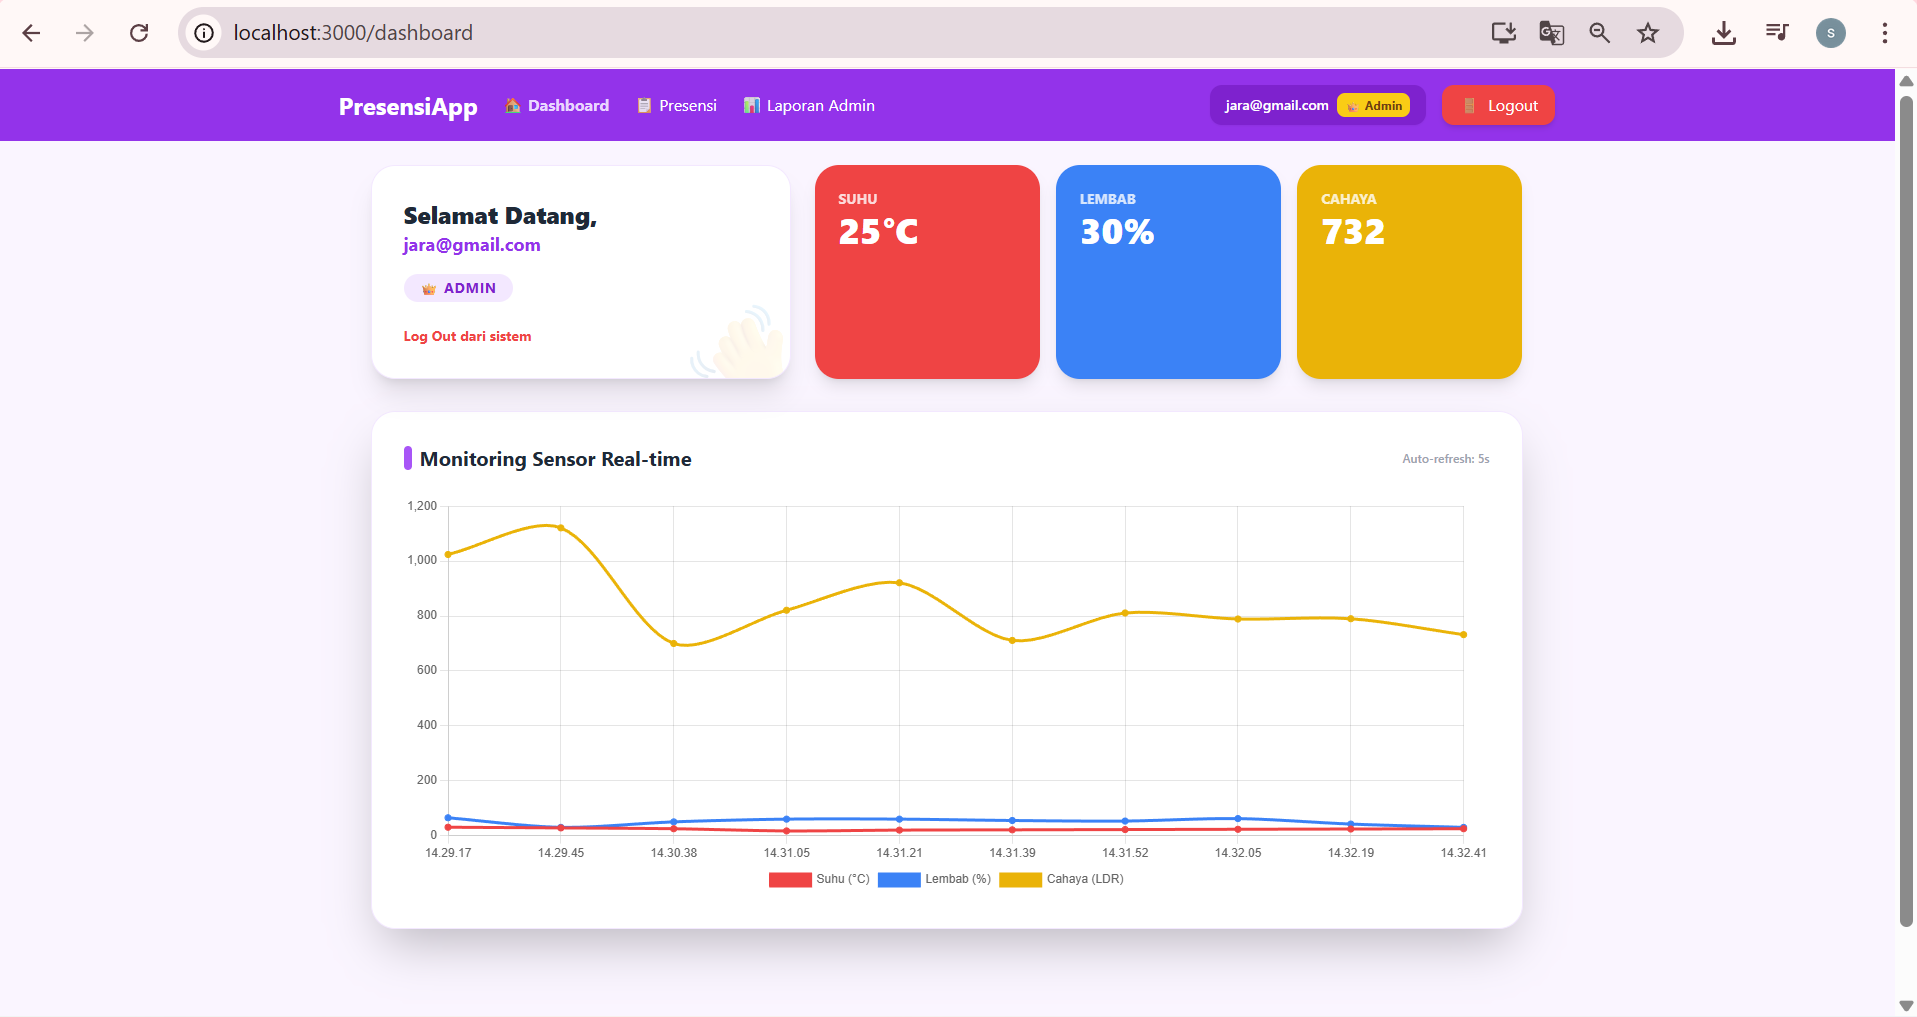
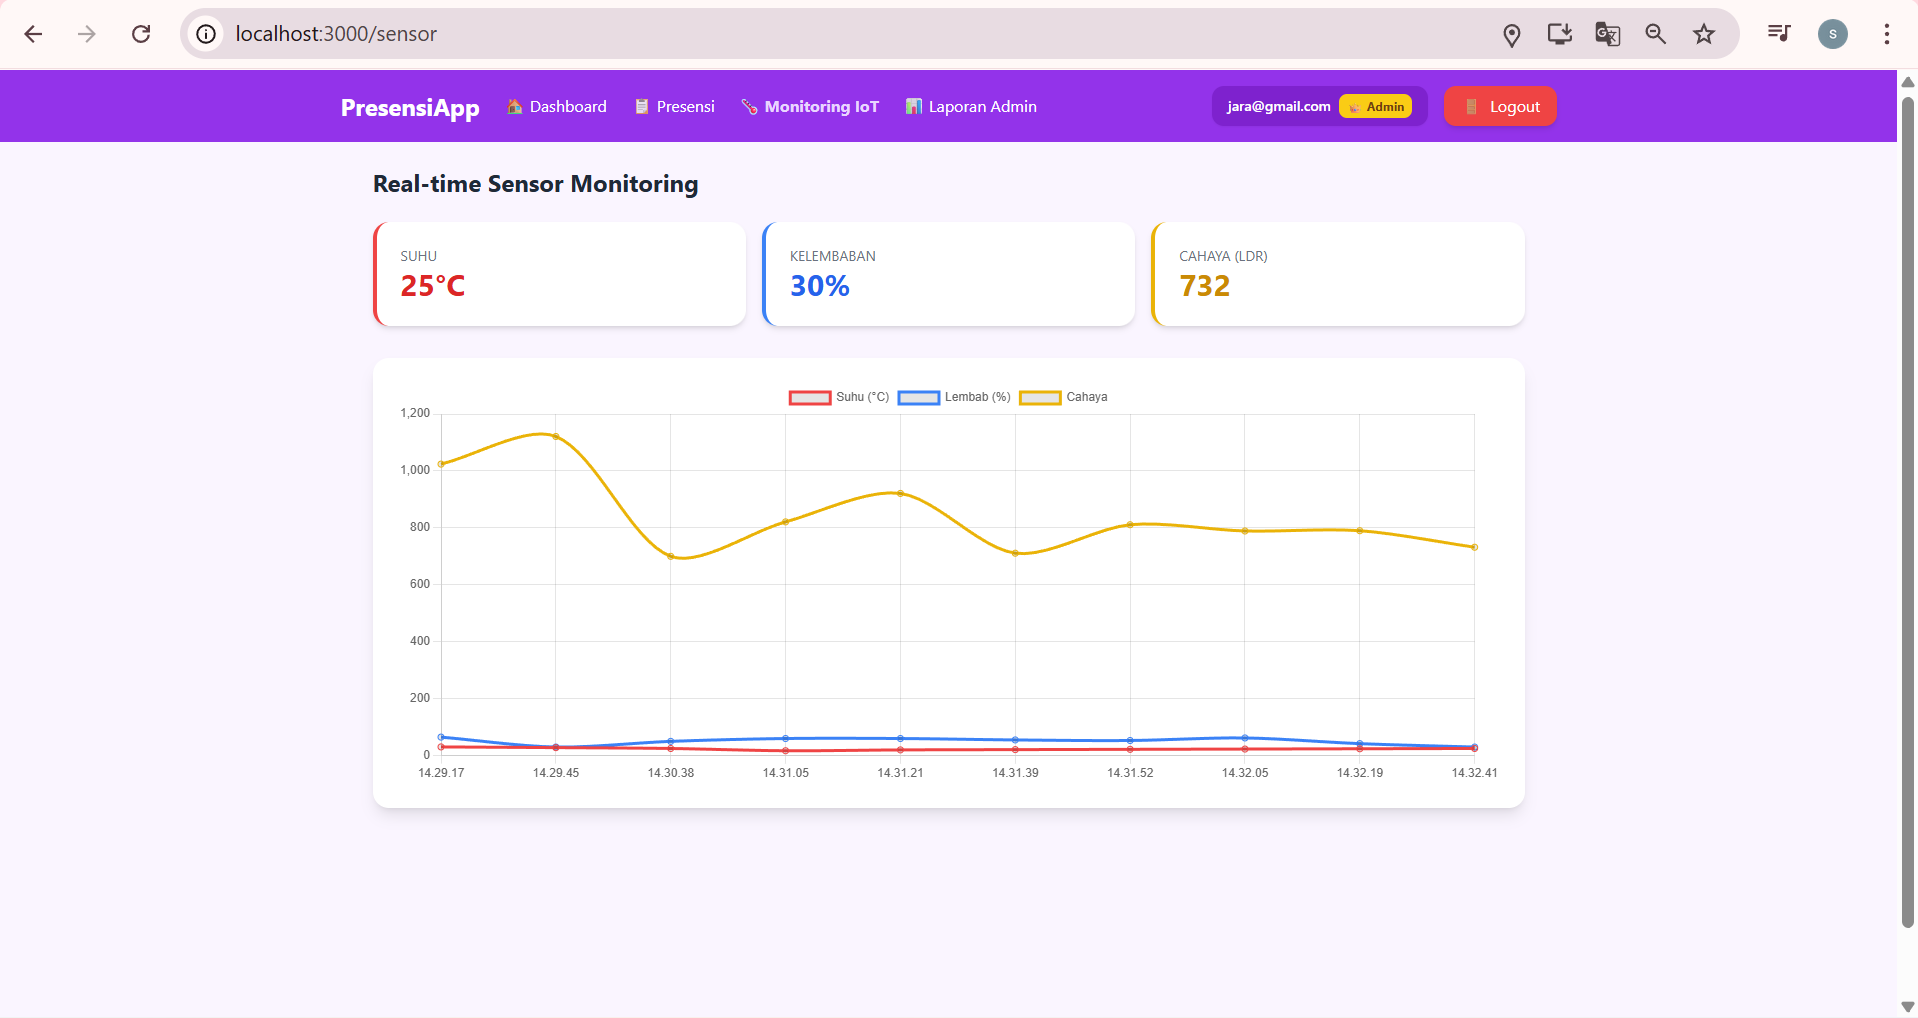
update tugas 14

diff --git a/20230140140-react-app/src/components/DashboardPage.js b/20230140140-react-app/src/components/DashboardPage.js
@@ -1,78 +1,24 @@
 import React, { useEffect, useState } from "react";
 import { useNavigate } from "react-router-dom";
 import { jwtDecode } from "jwt-decode";
-import axios from "axios";
-import {
-  Chart as ChartJS,
-  CategoryScale,
-  LinearScale,
-  PointElement,
-  LineElement,
-  Title,
-  Tooltip,
-  Legend,
-} from "chart.js";
-import { Line } from "react-chartjs-2";
-
-// Registrasi ChartJS
-ChartJS.register(CategoryScale, LinearScale, PointElement, LineElement, Title, Tooltip, Legend);
 
 function DashboardPage() {
   const navigate = useNavigate();
   const [userName, setUserName] = useState("Pengguna");
   const [role, setRole] = useState("");
 
-  // State untuk IoT (Modul 14)
-  const [chartData, setChartData] = useState({ labels: [], datasets: [] });
-  const [latestData, setLatestData] = useState({ suhu: 0, kelembaban: 0, cahaya: 0 });
-
-  // 1. Fungsi Ambil Data dari Backend
-  const fetchIoTData = async () => {
-    try {
-      const response = await axios.get("http://localhost:3001/api/iot/history");
-      const dataSensor = response.data.data;
-
-      if (dataSensor.length > 0) {
-        // Ambil data terbaru untuk Card
-        setLatestData(dataSensor[dataSensor.length - 1]);
-
-        // Siapkan data untuk Grafik
-        const labels = dataSensor.map((item) => new Date(item.createdAt).toLocaleTimeString("id-ID"));
-        const dataSuhu = dataSensor.map((item) => item.suhu);
-        const dataLembab = dataSensor.map((item) => item.kelembaban);
-        const dataCahaya = dataSensor.map((item) => item.cahaya);
-
-        setChartData({
-          labels,
-          datasets: [
-            { label: "Suhu (°C)", data: dataSuhu, borderColor: "#ef4444", backgroundColor: "#ef4444", tension: 0.3 },
-            { label: "Lembab (%)", data: dataLembab, borderColor: "#3b82f6", backgroundColor: "#3b82f6", tension: 0.3 },
-            { label: "Cahaya (LDR)", data: dataCahaya, borderColor: "#eab308", backgroundColor: "#eab308", tension: 0.3 },
-          ],
-        });
-      }
-    } catch (err) {
-      console.error("Gagal mengambil data IoT:", err);
-    }
-  };
-
   useEffect(() => {
-    // Auth Check
     const token = localStorage.getItem("token");
     if (!token) return navigate("/login");
 
     try {
       const decoded = jwtDecode(token);
+      // Mengambil email dari token
       setUserName(decoded.email || "Pengguna");
       setRole(decoded.role);
     } catch (e) {
       navigate("/login");
     }
-
-    // IoT Data Polling (Refresh tiap 5 detik)
-    fetchIoTData();
-    const interval = setInterval(fetchIoTData, 5000);
-    return () => clearInterval(interval);
   }, [navigate]);
 
   const handleLogout = () => {
@@ -81,71 +27,62 @@ function DashboardPage() {
   };
 
   return (
-    <div className="min-h-screen bg-purple-50 p-6">
-      <div className="max-w-6xl mx-auto">
+    <div className="min-h-screen bg-purple-50 flex items-center justify-center p-6">
+      <div className="bg-white p-10 rounded-3xl shadow-2xl text-center border border-purple-100 max-w-md w-full relative overflow-hidden">
         
-        {/* Header Section */}
-        <div className="flex flex-col md:flex-row gap-6 mb-8">
-          {/* Welcome Card (Kiri) */}
-          <div className="bg-white p-8 rounded-3xl shadow-xl border border-purple-100 flex-1 relative overflow-hidden">
-            <div className="relative z-10">
-              <h1 className="text-2xl font-extrabold text-gray-800">Selamat Datang,</h1>
-              <p className="text-purple-600 font-bold text-lg mb-4">{userName}</p>
-              <div className="inline-block bg-purple-100 text-purple-700 px-4 py-1 rounded-full text-sm font-bold uppercase tracking-wider">
-                {role === "admin" ? "👑 Admin" : "🎓 Mahasiswa"}
-              </div>
-              <button onClick={handleLogout} className="mt-6 block text-red-500 font-bold hover:underline text-sm">
-                Log Out dari sistem
-              </button>
-            </div>
-            <div className="absolute -right-4 -bottom-4 text-8xl opacity-10">👋</div>
+        {/* Dekorasi Background Circle di pojok (opsional, untuk estetika) */}
+        <div className="absolute top-0 left-0 w-20 h-20 bg-purple-100 rounded-br-full -z-0 opacity-50"></div>
+        <div className="absolute bottom-0 right-0 w-20 h-20 bg-purple-100 rounded-tl-full -z-0 opacity-50"></div>
+
+        <div className="relative z-10">
+          {/* Avatar Icon */}
+          <div className="w-24 h-24 bg-gradient-to-tr from-purple-200 to-purple-300 rounded-full mx-auto mb-6 flex items-center justify-center shadow-inner">
+            <span className="text-4xl">👋</span>
           </div>
 
-          {/* Real-time Indicator Cards (Kanan - TUGAS 2 MODUL 14) */}
-          <div className="grid grid-cols-1 sm:grid-cols-3 gap-4 flex-[2]">
-            <div className="bg-red-500 p-6 rounded-3xl shadow-lg text-white">
-              <p className="text-sm opacity-80 uppercase font-bold">Suhu</p>
-              <h2 className="text-4xl font-black">{latestData.suhu}°C</h2>
-            </div>
-            <div className="bg-blue-500 p-6 rounded-3xl shadow-lg text-white">
-              <p className="text-sm opacity-80 uppercase font-bold">Lembab</p>
-              <h2 className="text-4xl font-black">{latestData.kelembaban}%</h2>
-            </div>
-            <div className="bg-yellow-500 p-6 rounded-3xl shadow-lg text-white">
-              <p className="text-sm opacity-80 uppercase font-bold">Cahaya</p>
-              <h2 className="text-4xl font-black">{latestData.cahaya}</h2>
-            </div>
-          </div>
-        </div>
-
-        {/* Chart Section (TUGAS 1 MODUL 14) */}
-        <div className="bg-white p-8 rounded-3xl shadow-2xl border border-purple-100">
-          <div className="flex items-center justify-between mb-6">
-            <h3 className="text-xl font-bold text-gray-800 flex items-center gap-2">
-              <span className="w-2 h-6 bg-purple-500 rounded-full"></span>
-              Monitoring Sensor Real-time
-            </h3>
-            <span className="text-xs text-gray-400 font-medium">Auto-refresh: 5s</span>
-          </div>
+          <h1 className="text-3xl font-extrabold text-gray-800 mb-2">
+            Selamat Datang!
+          </h1>
           
-          <div className="h-[400px] w-full">
-            {chartData.labels.length > 0 ? (
-              <Line 
-                data={chartData} 
-                options={{ 
-                  responsive: true, 
-                  maintainAspectRatio: false,
-                  plugins: { legend: { position: 'bottom' } } 
-                }} 
-              />
-            ) : (
-              <div className="h-full flex items-center justify-center text-gray-400 italic">
-                Menunggu data dari sensor...
-              </div>
-            )}
-          </div>
-        </div>
+          <p className="text-purple-600 font-medium text-lg mb-6 break-words">
+            {userName}
+          </p>
 
+          {/* Info Card Kecil */}
+          <div className="bg-purple-50 rounded-2xl p-5 mb-8 border border-purple-100">
+            <div className="grid grid-cols-2 gap-4 divide-x divide-purple-200">
+              <div>
+                <p className="text-xs text-gray-500 uppercase tracking-wide">Role</p>
+                <p className="font-bold text-gray-800 capitalize mt-1">
+                  {role === 'admin' ? '👑 Admin' : '🎓 Mahasiswa'}
+                </p>
+              </div>
+              <div>
+                <p className="text-xs text-gray-500 uppercase tracking-wide">Hari Ini</p>
+                <p className="font-bold text-gray-800 mt-1 text-sm">
+                  {new Date().toLocaleDateString('id-ID', { 
+                    weekday: 'short', 
+                    day: 'numeric', 
+                    month: 'short' 
+                  })}
+                </p>
+              </div>
+            </div>
+          </div>
+
+          {/* Hint Text */}
+          <p className="text-gray-400 text-sm mb-8">
+            Silakan gunakan menu pada <strong>Navbar</strong> di atas untuk mengakses fitur lainnya.
+          </p>
+
+          {/* Logout Button */}
+          <button
+            onClick={handleLogout}
+            className="w-full py-3 px-6 bg-white border-2 border-red-100 text-red-500 font-bold rounded-xl hover:bg-red-50 hover:border-red-200 transition-all shadow-sm hover:shadow-md active:scale-95"
+          >
+            Log Out
+          </button>
+        </div>
       </div>
     </div>
   );

diff --git a/20230140140-react-app/src/components/SensorPage.js b/20230140140-react-app/src/components/SensorPage.js
@@ -1,66 +1,71 @@
-import React, { useState, useEffect } from 'react';
-import axios from 'axios';
-import { Chart as ChartJS, CategoryScale, LinearScale, PointElement, LineElement, Title, Tooltip, Legend } from 'chart.js';
-import { Line } from 'react-chartjs-2';
+import React, { useEffect, useState } from "react";
+import axios from "axios";
+import { Chart as ChartJS, CategoryScale, LinearScale, PointElement, LineElement, Title, Tooltip, Legend } from "chart.js";
+import { Line } from "react-chartjs-2";
 
 ChartJS.register(CategoryScale, LinearScale, PointElement, LineElement, Title, Tooltip, Legend);
 
-function SensorPage() {
+function MonitoringPage() {
   const [chartData, setChartData] = useState({ labels: [], datasets: [] });
   const [latestData, setLatestData] = useState({ suhu: 0, kelembaban: 0, cahaya: 0 });
 
-  const fetchData = async () => {
+  const fetchIoTData = async () => {
     try {
-      const response = await axios.get('http://localhost:3001/api/iot/history');
+      const response = await axios.get("http://localhost:3001/api/iot/history");
       const dataSensor = response.data.data;
-
-      const labels = dataSensor.map(item => new Date(item.createdAt).toLocaleTimeString());
-      const dataSuhu = dataSensor.map(item => item.suhu);
-      const dataLembab = dataSensor.map(item => item.kelembaban);
-      const dataCahaya = dataSensor.map(item => item.cahaya);
-
-      // Set data terakhir untuk kartu indikator (TUGAS 2)
-      if(dataSensor.length > 0) setLatestData(dataSensor[dataSensor.length - 1]);
-
-      setChartData({
-        labels,
-        datasets: [
-          { label: 'Suhu (°C)', data: dataSuhu, borderColor: 'rgb(255, 99, 132)', tension: 0.2 },
-          { label: 'Kelembaban (%)', data: dataLembab, borderColor: 'rgb(53, 162, 235)', tension: 0.2 },
-          { label: 'Cahaya (LDR)', data: dataCahaya, borderColor: 'rgb(255, 205, 86)', tension: 0.2 }, // TUGAS 1
-        ],
-      });
+      if (dataSensor.length > 0) {
+        setLatestData(dataSensor[dataSensor.length - 1]);
+        const labels = dataSensor.map((item) => new Date(item.createdAt).toLocaleTimeString("id-ID"));
+        setChartData({
+          labels,
+          datasets: [
+            { label: "Suhu (°C)", data: dataSensor.map(i => i.suhu), borderColor: "#ef4444", tension: 0.3 },
+            { label: "Lembab (%)", data: dataSensor.map(i => i.kelembaban), borderColor: "#3b82f6", tension: 0.3 },
+            { label: "Cahaya", data: dataSensor.map(i => i.cahaya), borderColor: "#eab308", tension: 0.3 },
+          ],
+        });
+      }
     } catch (err) { console.error(err); }
   };
 
   useEffect(() => {
-    fetchData();
-    const interval = setInterval(fetchData, 5000); // Auto refresh tiap 5 detik
+    fetchIoTData();
+    const interval = setInterval(fetchIoTData, 5000);
     return () => clearInterval(interval);
   }, []);
 
   return (
-    <div style={{ padding: '20px' }}>
-      <h1>Dashboard IoT</h1>
-      
-      {/* TUGAS 2: Kartu Indikator */}
-      <div style={{ display: 'flex', gap: '10px', marginBottom: '20px' }}>
-        <div style={{ background: '#ff6384', color: 'white', padding: '15px', borderRadius: '8px', flex: 1 }}>
-          Suhu: {latestData.suhu}°C
+    <div className="min-h-screen bg-purple-50 p-6">
+      <div className="max-w-6xl mx-auto">
+        <h2 className="text-2xl font-bold text-gray-800 mb-6">Real-time Sensor Monitoring</h2>
+        
+        {/* Card Indikator */}
+        <div className="grid grid-cols-1 sm:grid-cols-3 gap-4 mb-8">
+          <div className="bg-white p-6 rounded-2xl shadow-md border-l-4 border-red-500">
+            <p className="text-gray-500 text-sm uppercase">Suhu</p>
+            <h3 className="text-3xl font-bold text-red-600">{latestData.suhu}°C</h3>
+          </div>
+          <div className="bg-white p-6 rounded-2xl shadow-md border-l-4 border-blue-500">
+            <p className="text-gray-500 text-sm uppercase">Kelembaban</p>
+            <h3 className="text-3xl font-bold text-blue-600">{latestData.kelembaban}%</h3>
+          </div>
+          <div className="bg-white p-6 rounded-2xl shadow-md border-l-4 border-yellow-500">
+            <p className="text-gray-500 text-sm uppercase">Cahaya (LDR)</p>
+            <h3 className="text-3xl font-bold text-yellow-600">{latestData.cahaya}</h3>
+          </div>
         </div>
-        <div style={{ background: '#35a2eb', color: 'white', padding: '15px', borderRadius: '8px', flex: 1 }}>
-          Lembab: {latestData.kelembaban}%
-        </div>
-        <div style={{ background: '#ffcd56', color: 'black', padding: '15px', borderRadius: '8px', flex: 1 }}>
-          Cahaya: {latestData.cahaya}
-        </div>
-      </div>
 
-      <div style={{ background: 'white', padding: '20px', borderRadius: '10px', boxShadow: '0 4px 6px rgba(0,0,0,0.1)' }}>
-        <Line data={chartData} />
+        {/* Grafik */}
+        <div className="bg-white p-6 rounded-2xl shadow-lg h-[450px]">
+          {chartData.labels.length > 0 ? (
+            <Line data={chartData} options={{ responsive: true, maintainAspectRatio: false }} />
+          ) : (
+            <p className="flex items-center justify-center h-full text-gray-400">Memuat data sensor...</p>
+          )}
+        </div>
       </div>
     </div>
   );
 }
 
-export default SensorPage;
+export default MonitoringPage;

diff --git a/20230140140-react-app/src/components/Navbar.js b/20230140140-react-app/src/components/Navbar.js
@@ -33,7 +33,6 @@ function Navbar({ user, onLogout }) {
                   <span>🏠</span>
                   <span>Dashboard</span>
                 </button>
-
                 {/* Menu Presensi - Selalu tampil */}
                 <button 
                   onClick={() => navigate('/presensi')}
@@ -44,7 +43,17 @@ function Navbar({ user, onLogout }) {
                   <span>📋</span>
                   <span>Presensi</span>
                 </button>
-                
+
+                {/* --- TAMBAHKAN MENU INI --- */}
+                <button 
+                  onClick={() => navigate('/sensor')}
+                  className={`hover:text-purple-200 transition flex items-center space-x-1 ${
+                    location.pathname === '/sensor' ? 'text-purple-200 font-bold' : ''
+                  }`}
+                >
+                  <span>🌡</span>
+                  <span>Monitoring IoT</span>
+                </button>
                 {/* Menu Laporan Admin - Hanya untuk admin, selalu tampil */}
                 {user.role === 'admin' && (
                   <button 

diff --git a/20230140140-react-app/src/App.js b/20230140140-react-app/src/App.js
@@ -7,8 +7,11 @@ import DashboardPage from "./components/DashboardPage";
 import Navbar from "./components/Navbar";
 import PresensiPage from "./components/PresensiPage.js";
 import ReportPage from "./components/ReportPage.js"; // ✅ Import ReportPage
+import SensorPage from './components/SensorPage.js';
 import { jwtDecode } from "jwt-decode";
 import { useNavigate } from "react-router-dom";
+
+
 
 
 function App() {
@@ -48,7 +51,8 @@ function App() {
           path="/presensi"
           element={<PresensiPage user={user} token={token} />}
         />
-
+        {/* Di dalam <Routes> */}
+        <Route path="/sensor" element={<SensorPage />} />
         {/* ✅ Tambahkan route reports */}
         <Route
           path="/reports"
